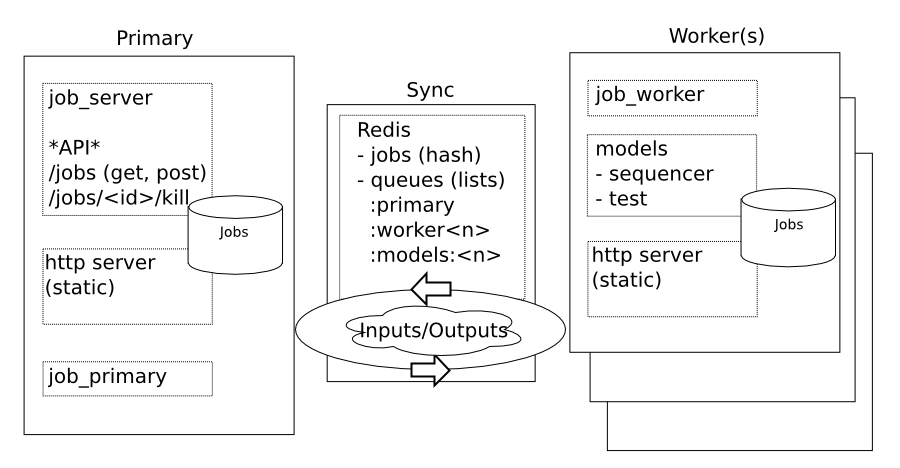
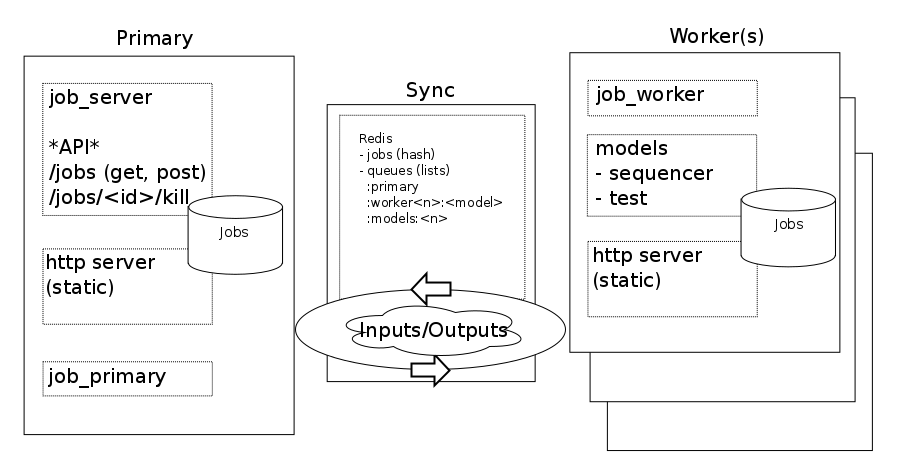
update doc to reflect kill-fix

diff --git a/README.md b/README.md
@@ -42,9 +42,9 @@ Workers wait on 2 queues:
 
   This is where it waits for jobs to run a specific model
 
-2.  modelrunner:queues:&lt;worker_id&gt;
+2.  modelrunner:queues:&lt;worker_id&gt;:&lt;model&gt;
 
-  This is where it waits for a job to be killed
+  This is where it waits for a job (specific to model) to be killed
 
 Additionally, the Primary waits on a queue:
 
@@ -128,14 +128,14 @@ MR_TMP_DIR=$(mktemp -d)
 . testing/api_functions.sh
 
 # create job and echo it's status
-job_id=$(mr_create_job test_job_1 "test" "@testing/input.zip")
+job_id=$(mr_create_job test_job_1 "test" "@testing/sleep_count_8.zip")
 echo $(mr_job_status $job_id)
 
 # kill the job
 mr_kill_job $job_id
 
 # create job and echo it's status
-job_id=$(mr_create_job test_job_2 "test" "@testing/input.zip")
+job_id=$(mr_create_job test_job_2 "test" "@testing/sleep_count_8.zip")
 echo $(mr_job_status $job_id)
 
 # wait for it to complete or until 10 second timeout
